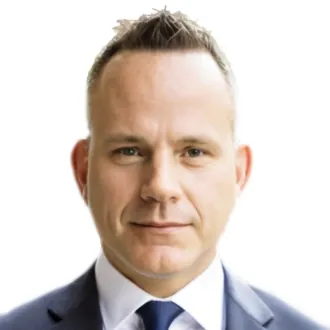
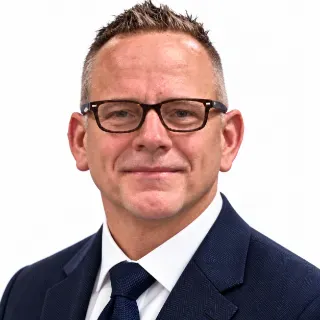
team: live decks.nymbus.ca portraits (6), Léana D'Imperio and Philippe Rivet added, JPL live title; counts recomputed
Feeds: website (about/team and approach pages).

Claude-Session: https://claude.ai/code/session_01HkTsrCjFFbrE1zc4C2YzDT

diff --git a/src/data/team.ts b/src/data/team.ts
@@ -1,7 +1,9 @@
 /**
  * Static team list (fallback when WordPress has no team). The 14 people of the nymbus-decks team list
  * (data/seed/team.json, the source of decks.nymbus.ca) take their titles, years of experience, education, designations,
- * LinkedIn and portraits from it (2026-10-02). Xavier Girard is not in that list but appears on the governance slide of
+ * LinkedIn and portraits from it (2026-10-02), updated 2026-10-03 from the live decks.nymbus.ca team (/api/team): newer
+ * portraits for Jennifer Pinkerton, Danira Csano, Jean-Philippe Lejeune, Gabriel Cefaloni, Fraser Coburn and Lyes Hammadi,
+ * live titles, and two new people (Léana D’Imperio, Philippe Rivet). Xavier Girard is not in that list but appears on the governance slide of
  * the v3 keynote GMV deck (decks/nymbus-capital-global-minimum-volatility-6): his portrait and years of experience come
  * from that slide (2026-10-03); his other fields are the previous site's. Guy Liébart, Jason Laliberte and Luca Ieraci
  * are in neither: previous site's data, no `yearsExperience`. Credential counts are computed from this file only
@@ -224,7 +226,7 @@ export const team: TeamMember[] = [
   },
   {
     name: "Jean-Philippe Lejeune",
-    title: "Quantitative Developer & Trader",
+    title: "Quant Developer & Trader",
     titleFr: "Développeur quantitatif et négociateur",
     department: "Quantitative Research",
     additionalDepartments: ["Investment Team"],
@@ -367,6 +369,41 @@ export const team: TeamMember[] = [
     initials: "XG",
     color: "#0b57d0",
     photo: "/team/xavier-girard.webp",
+  },
+  {
+    name: "Léana D’Imperio",
+    title: "Manager, Business Development",
+    titleFr: "Gestionnaire, développement des affaires",
+    department: "Operations",
+    bio: "Business development manager. 6 years of experience, including relationship management in business markets and financial advice.",
+    bioFr: "Gestionnaire, développement des affaires. 6 ans d’expérience, notamment en gestion de relations, marchés des entreprises, et en conseil financier.",
+    education: ["MBA"],
+    educationFr: ["MBA"],
+    designations: ["MBA", "CIM"],
+    previousRoles: ["Relationship Manager, Business Markets", "Business Development Associate", "Financial Advisor"],
+    previousRolesFr: ["Directrice de comptes, marchés des entreprises", "Associée, développement des affaires", "Conseillère financière"],
+    yearsExperience: 6,
+    initials: "LD",
+    color: "#1a73e8",
+    photo: "/team/leana-d-imperio.webp",
+    linkedin: "https://www.linkedin.com/in/l%C3%A9ana-d%E2%80%99imperio-mba-690ab1195/",
+  },
+  {
+    name: "Philippe Rivet",
+    title: "Manager, Business Development",
+    titleFr: "Gestionnaire, développement des affaires",
+    department: "Operations",
+    bio: "Business development manager. 10 years of experience, including global marketing (digital and channel) and marketing operations.",
+    bioFr: "Gestionnaire, développement des affaires. 10 ans d’expérience, notamment en marketing mondial (numérique et canaux) et en opérations marketing.",
+    education: ["BBA, International Business & Economics"],
+    educationFr: ["B.A.A., commerce international et économie"],
+    previousRoles: ["Global Marketing Manager, Digital & Channel", "Marketing Operations Manager"],
+    previousRolesFr: ["Gestionnaire, marketing mondial, numérique et canaux", "Gestionnaire, opérations marketing"],
+    yearsExperience: 10,
+    initials: "PR",
+    color: "#0277bd",
+    photo: "/team/philippe-rivet.webp",
+    linkedin: "https://www.linkedin.com/in/philippe-rivet/",
   },
   {
     name: "Danira Csano",

diff --git a/tests/unit/site/content-v3.test.ts b/tests/unit/site/content-v3.test.ts
@@ -56,13 +56,14 @@ test("team: credential counts are computed from the data, never typed", () => {
   assert.equal(countHolding([], /x/), 0);
 });
 
-test("team: the counters see what the data holds today (2 PhDs, 3 engineering / CS degrees, 6 CFA or CIM)", () => {
+test("team: the counters see what the data holds today (2 PhDs, 3 engineering / CS degrees, 7 CFA or CIM; live decks team 2026-10-03)", () => {
   // pinned so a data change is a visible, reviewed change of the public figures
   assert.equal(countPhD(team), 2);
   assert.equal(countEngineering(team), 3);
-  assert.equal(countCharter(team), 6);
-  assert.equal(countGraduate(team), 9);
-  assert.equal(combinedExperience(team)!.years, 277);
+  assert.equal(countCharter(team), 7);
+  assert.equal(countGraduate(team), 10);
+  assert.equal(combinedExperience(team)!.years, 293);
+  assert.equal(team.length, 20);
 });
 
 test("team: badges are short text credentials, key ones (PhD, CFA, CIM) flagged, French forms in French", () => {

diff --git a/docs/compliance-review.md b/docs/compliance-review.md
@@ -480,3 +480,4 @@ Gabriel's requests of 2026-10-03. Rows replace earlier wording where they differ
 | W3 | **Tobacco-Free Finance Pledge**, worded as a firm-level signature (date unchanged, 2024): "A firm-level signature. The pledge, an initiative of Tobacco Free Portfolios hosted with UNEP FI, encourages signatories to consider tobacco-free policies across lending, insurance and investment." News body: "Nymbus signed the Tobacco-Free Finance Pledge, an initiative of Tobacco Free Portfolios hosted with UNEP FI. Signatories are encouraged to consider adopting tobacco-free finance policies across lending, insurance and investment." No firm-wide portfolio exclusion is claimed; ESG exclusions stay attributed to the Sustainable Enhanced Bonds Fund. No logo. **Source**: Ontario Teachers' Pension Plan, "Global leaders launch Tobacco-Free Finance Pledge" (2018), https://www.otpp.com/en-ca/about-us/news-and-insights/2018/global-leaders-launch-tobacco-free-finance-pledge/ | /sustainability, news | Resolves R1's open question as worded. |
 | W4 | **"Liquid alternative" approved for Multi-Strategy** (Gabriel, 2026-10-03; supersedes R4): approach lead "A liquid alternative across asset classes, designed to have low correlation with stocks and bonds in down months"; "Three ways" card "A liquid alternative, Alternative Multi-Strategy category" / « catégorie Multistratégies alternatives »; Multi-Strategy fund summary "A liquid alternative fund of systematic strategies…" and feature lead "Alternative Multi-Strategy category: distinct roles, diversified sources of return"; solutions "Liquid alternatives designed for low down-month correlation", advisors "A liquid alternative to diversify". **Inflation wording "over a full rate cycle" approved** (R3). | /approach, Multi-Strategy page, /solutions | Category name to match the fund's official CIFSC category. |
 | W5 | **Text cuts** (Gabriel: "a little bit too much text"): body copy trimmed on home, about, approach, solutions, strategies index and the fund-page marketing texts; every disclosure kept verbatim (overlay exposure, low-correlation caveat, distributions, hedging note, footnotes, ESG scope, illustration labels). Removed or shortened: two approach pipeline bullets (transaction-cost optimization, regime detection), the risk-section lead ("Ultra-micro analysis, at scale."), bond-process steps, use-case titles and steps, credentials note, strategies lead / dash note / CTA, fund feature leads and cards (Monthly Income, SEB metrics card, Multi-Strategy mean reversion, GMV stack card). Word budgets lowered (`word-budget.test.ts`), FUND_TEXTS get their own ceiling. | Public pages | No meaning change intended; the removed approach bullets are method details only. |
+| W6 | **Live decks.nymbus.ca team (2026-10-03, /api/team, fetched by the coordinator)**: newer portraits for Jennifer Pinkerton, Danira Csano, Jean-Philippe Lejeune, Gabriel Cefaloni, Fraser Coburn and Lyes Hammadi (re-encoded WebP 320 px, colour profile converted to sRGB and removed, no metadata). Two new people, both Operations / business development: **Léana D’Imperio**, Manager, Business Development (6 years; MBA; CIM — the live entry's typo "managert (im)" read as CIM / « gestionnaire de placements agréée (CIM) »; previous roles relationship manager, business markets; business development associate; financial advisor; LinkedIn) and **Philippe Rivet**, Manager, Business Development (10 years; BBA, international business & economics; previous roles global marketing manager, digital & channel; marketing operations manager; LinkedIn). Live title for Jean-Philippe Lejeune: "Quant Developer & Trader" (FR unchanged); Lyes Hammadi's « Ingénieur logiciel principal, placements » is kept as his own job title only. Fraser Coburn's and Danira Csano's decks LinkedIn links are still skipped (they point to other people). **Counts now: 20 people, 2 PhDs, 3 engineering & computer-science degrees, 10 master's and doctoral degrees, 7 CFA or CIM holders, 293+ years of combined experience.** Gabriel consented on 2026-10-03 to the portraits and LinkedIn links. | /team, /approach | Confirm the two newcomers' consent to their portrait and LinkedIn link. |

diff --git a/docs/HANDOFF.md b/docs/HANDOFF.md
@@ -185,6 +185,8 @@ Not yet run against live data, not deployed.
   (fingerprint updated with Gabriel's 2026-10-03 note; animation untouched). (3) Tobacco-Free pledge worded as a firm signature
   (Tobacco Free Portfolios, UNEP FI; OTPP 2018 source in compliance). (4) "Liquid alternative" + "Alternative Multi-Strategy"
   category restored for Multi-Strategy (approved). (5) Body copy trimmed, budgets lowered. Compliance rows W1–W5.
+  Follow-up: live decks.nymbus.ca team (/api/team) — 6 newer portraits, Léana D’Imperio and Philippe Rivet added (business
+  development), JPL title "Quant Developer & Trader"; counts 20 people / 7 CFA-CIM / 10 graduate / 293+ years (row W6).
 
 - 2026-10-03 (cloud agent, branch `fix/ftse-live` from `redesign/v3-keynote-live-data`; **not merged**): fixes after the
   first live run. (1) FTSE month-ends use a Canadian bond-market calendar (Truth and Reconciliation Day, Remembrance Day:
